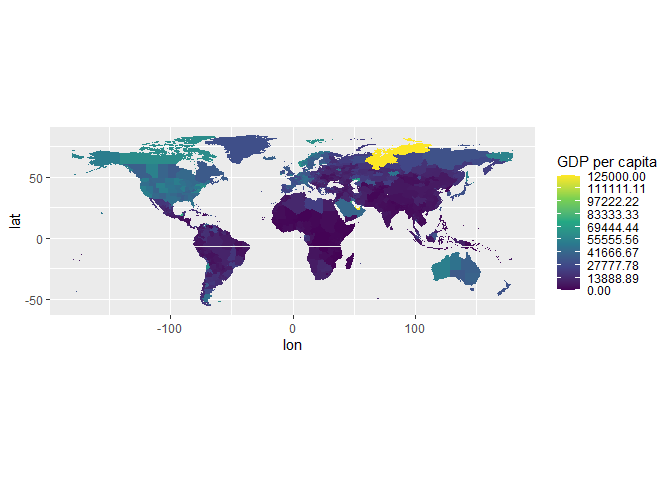
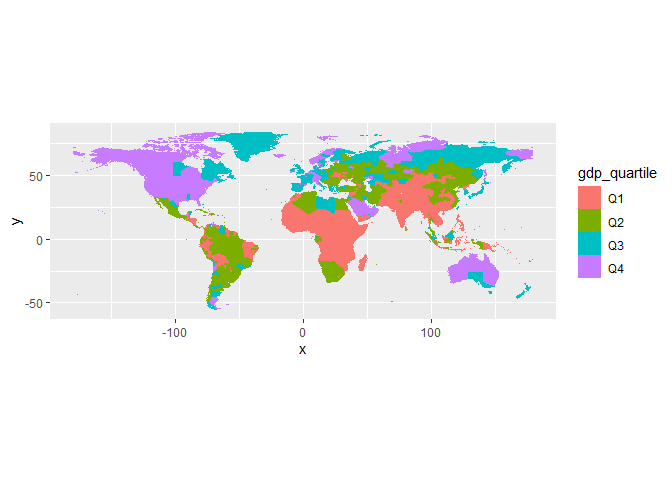
resample income data

diff --git a/MSc-Thesis-Econ/code/income-data.md b/MSc-Thesis-Econ/code/income-data.md
@@ -7,9 +7,8 @@ Code
 
 Source: <https://doi.org/10.5061/dryad.dk1j0>
 
-Also Peri (2019) uses cell-level data for income to split observations
-into 4 income groups (poor, mid-poor, mid-rich, rich). However, two
-drawbacks:
+Peri (2019) uses cell-level data for income to split observations into 4
+income groups (poor, mid-poor, mid-rich, rich). However, two drawbacks:
 
 - low frequency, 10 years intervals between 1980 and 2100
 - low resolution, 0.5° (= 30 arc-min,
@@ -27,93 +26,65 @@ Goal: distribute cells based on their GPD per capita into 4 percentiles
 1)  Long-run income average for all cells, 2000-2015
 2)  Assign percentiles
 
-Making income percentile at cell-level and not using coutry-level data
+Making income percentile at cell-level and not using country-level data
 (eg. from World Bank) allows me to keep taking advantage of the fine
 spatial resolution, capturing within-country variation.
 
 Handling NetCDF files in R: - <https://rdrr.io/cran/ncdf4/man/> -
 <https://pjbartlein.github.io/REarthSysSci/netCDF.html>
 
+**RESAMPLING**! Climate data are in 6 arcmin (0.1°). Therefore I need to
+resample Income data first, from 5 arcmin (0.083°) to 6 arcmin! Loss in
+resolution is not drastic and the aggregation helps in reducing data
+complexity.
+
+``` r
+library(terra)
+```
+
+    ## Warning: package 'terra' was built under R version 4.4.3
+
+    ## terra 1.8.29
+
 ``` r
 library(ncdf4)
 
 filepath_GDP_per_capita_PPP_1990_2015_v2 <- "../data/GDP_per_capita_PPP_1990_2015_v2.nc"
-GDP_per_capita_PPP_1990_2015_v2 <- nc_open(filepath_GDP_per_capita_PPP_1990_2015_v2)
+r_gdp <- rast(filepath_GDP_per_capita_PPP_1990_2015_v2)
+
+r_gdp
 ```
 
-``` r
-# Extract variables of interest
-lat <- ncvar_get(GDP_per_capita_PPP_1990_2015_v2, "latitude") # x2160
-lon <- ncvar_get(GDP_per_capita_PPP_1990_2015_v2, "longitude") # x4320
-years_all <- ncvar_get(GDP_per_capita_PPP_1990_2015_v2, "time") # 1990-2015
-years <- years_all[11:26] # Subset years 2000-2015
-
-gdp <- ncvar_get(
-  GDP_per_capita_PPP_1990_2015_v2, 
-  "GDP_per_capita_PPP", 
-  start = c(1, 1, 11), # Start from beginning of lon and lat, and year 11
-  count = c(-1, -1, 16) # Read all lon, all lat, and 16 years (2000–2015)
-) # Size: 2160 lat * 4320 lon * 16 years = 149.299.200 observations
-
-# From 3D array to 1D vector
-gdp_vec <- as.vector(gdp)
-
-# Build coordinate grid (lon, lat, time)
-grid <- expand.grid(
-  lon = lon,
-  lat = lat,
-  year = years
-)
-
-# Combine into a dataframe
-gdp_df_full <- data.frame(
-  lon = grid$lon,
-  lat = grid$lat,
-  year = grid$year,
-  gdp = gdp_vec
-)
-
-# Remove missing values
-gdp_df <- gdp_df_full[!is.na(gdp_df_full$gdp), ] # From 149ml obs, to 36ml obs
-```
-
-Now that we have imported the dataset, let’s make the average of the
-cell GPD over 2000-2015.
+    ## class       : SpatRaster 
+    ## dimensions  : 2160, 4320, 26  (nrow, ncol, nlyr)
+    ## resolution  : 0.08333333, 0.08333334  (x, y)
+    ## extent      : -180, 180, -90, 90  (xmin, xmax, ymin, ymax)
+    ## coord. ref. : +proj=longlat +datum=WGS84 +no_defs 
+    ## source      : GDP_per_capita_PPP_1990_2015_v2.nc 
+    ## varname     : GDP_per_capita_PPP (Gross Domestic Production (GDP) per capita (PPP)) 
+    ## names       :                           GDP_p~PPP_1,                           GDP_p~PPP_2,                           GDP_p~PPP_3,                           GDP_p~PPP_4,                           GDP_p~PPP_5,                           GDP_p~PPP_6, ... 
+    ## unit        : constant 2011 international US dollar, constant 2011 international US dollar, constant 2011 international US dollar, constant 2011 international US dollar, constant 2011 international US dollar, constant 2011 international US dollar, ...
 
 ``` r
-library(dplyr)
-```
+# Select years 2000–2015
+r_gdp_sel <- r_gdp[[11:26]]
 
-    ## Warning: package 'dplyr' was built under R version 4.4.3
+# Compute mean across years
+r_gdp_mean <- mean(r_gdp_sel, na.rm = TRUE)
 
-    ## 
-    ## Attaching package: 'dplyr'
+# Template at 0.1° (6 arcmin) resolution
+r_template <- rast(ext(r_gdp_mean), resolution = 0.1, crs = crs(r_gdp_mean))
 
-    ## The following objects are masked from 'package:stats':
-    ## 
-    ##     filter, lag
+# Resample to 0.1°
+r_gdp_resampled <- resample(r_gdp_mean, r_template, method = "bilinear")
 
-    ## The following objects are masked from 'package:base':
-    ## 
-    ##     intersect, setdiff, setequal, union
-
-``` r
-# Average GDP 2000-2015
-gdp_avg <- gdp_df %>%
-  group_by(lon, lat) %>%
-  summarise(mean_gdp = mean(gdp, na.rm = TRUE))
-```
-
-    ## `summarise()` has grouped output by 'lon'. You can override using the `.groups`
-    ## argument.
-
-``` r
-# Now the size is 2,3ml observations.
-# Check: 2160*4320, net of NA values of oceans/lakes, global land surface is 29%
+# Convert to data.frame
+gdp_avg <- as.data.frame(r_gdp_resampled, xy = TRUE, na.rm = TRUE)
+names(gdp_avg)[3] <- "mean_gdp"
 ```
 
 Let’s see the distribution of the average GDP per capita. Only few
-outliers (70k observations) at avg_gdp \> \$125k.
+outliers (50k observations) at avg_gdp \> \$125k.
 
 ``` r
 library(ggplot2)
@@ -122,8 +93,11 @@ library(ggplot2)
     ## Warning: package 'ggplot2' was built under R version 4.4.3
 
 ``` r
+# Remove outliers to calculate quantiles
+gdp_avg_clean <- gdp_avg[gdp_avg$mean_gdp < 125000, ]
+
 # Quartiles
-p <- quantile(gdp_avg$mean_gdp, probs = c(0.25, 0.5, 0.75))
+p <- quantile(gdp_avg_clean$mean_gdp, probs = c(0.25, 0.5, 0.75))
 
 # Histogram
 ggplot(gdp_avg, aes(mean_gdp)) +
@@ -139,7 +113,7 @@ ggplot(gdp_avg, aes(mean_gdp)) +
 
     ## `stat_bin()` using `bins = 30`. Pick better value with `binwidth`.
 
-![](income-data_files/figure-gfm/unnamed-chunk-4-1.png)<!-- -->
+![](income-data_files/figure-gfm/unnamed-chunk-3-1.png)<!-- -->
 
 Let’s split observations in quartiles. In this way, we can later group
 Net-Migration and Climate data in GDP clusters.
@@ -157,27 +131,135 @@ gdp_avg$gdp_quartile <- cut(
 Let’s plot average GDP per capita.
 
 ``` r
-ggplot(gdp_avg, aes(x=lon, y=lat, fill=mean_gdp)) +
+ggplot(gdp_avg, aes(x=x, y=y, fill=mean_gdp)) +
   geom_tile() +
   coord_fixed() +
-  scale_fill_viridis_c(name = "GDP per capita", limits = c(0,125000), oob = scales::squish, breaks = seq(0, 125000, length.out=10))
+  scale_fill_viridis_c(name = "GDP per capita", limits = c(0,125000), oob = scales::squish)
 ```
 
-![](income-data_files/figure-gfm/unnamed-chunk-6-1.png)<!-- -->
+![](income-data_files/figure-gfm/unnamed-chunk-5-1.png)<!-- -->
 
 ``` r
 #ggsave("test.png", units = "px", width = 2000, height = 1500)
 ```
 
-Let’s plot quartiles on the map.
+Let’s plot quartiles on the map. It’s visible how using cell-level data,
+instead of country-level, we have within-country variation (and not
+corresponding to regional administrative borders).
 
 ``` r
-ggplot(gdp_avg, aes(x=lon, y=lat, fill=gdp_quartile)) +
+ggplot(gdp_avg, aes(x=x, y=y, fill=gdp_quartile)) +
   geom_tile() +
   coord_fixed()
 ```
 
-![](income-data_files/figure-gfm/unnamed-chunk-7-1.png)<!-- -->
+![](income-data_files/figure-gfm/unnamed-chunk-6-1.png)<!-- -->
+
+Some Summary Stats
+
+``` r
+summary(gdp_avg$mean_gdp)
+```
+
+    ##     Min.  1st Qu.   Median     Mean  3rd Qu.     Max. 
+    ##    449.2   6390.4  19316.2  26655.9  39673.9 132869.7
+
+Number of cells: 1,5 mln.
+
+``` r
+length(gdp_avg$mean_gdp)
+```
+
+    ## [1] 1572666
+
+Number of cell in each income group.
+
+``` r
+table(gdp_avg$gdp_quartile)
+```
+
+    ## 
+    ##     Q1     Q2     Q3     Q4 
+    ## 389525 376595 376245 430301
+
+Info ORIGINAL raster
+
+``` r
+ext(r_gdp_mean)
+```
+
+    ## SpatExtent : -179.999994912559, 179.999994912559, -90.0000025443095, 90.0000025443094 (xmin, xmax, ymin, ymax)
+
+``` r
+res(r_gdp_mean)
+```
+
+    ## [1] 0.08333333 0.08333334
+
+Info RESAMPLED raster
+
+``` r
+ext(r_gdp_resampled)
+```
+
+    ## SpatExtent : -179.999994912559, 179.999994912559, -90.0000025443095, 90.0000025443094 (xmin, xmax, ymin, ymax)
+
+``` r
+res(r_gdp_resampled)
+```
+
+    ## [1] 0.1 0.1
+
+This is how the GRID has changed after resampling.
+
+``` r
+# Area
+region <- ext(10, 11, 50, 51) # lon_min, lon_max, lat_min, lat_max
+
+# Crop
+r_gdp_original_crop <- crop(r_gdp_mean, region) # original
+r_gdp_resampled_crop <- crop(r_gdp_resampled, region) # resampled
+
+# To data frames
+df_original <- as.data.frame(r_gdp_original_crop, xy = TRUE, na.rm = TRUE)
+df_resampled <- as.data.frame(r_gdp_resampled_crop, xy = TRUE, na.rm = TRUE)
+
+ggplot() +
+  # Original
+  geom_tile(data = df_original, aes(x = x, y = y), fill = "black", alpha = .5, color = "black", linewidth = 1) +
+  
+  # Resampled
+  geom_tile(data = df_resampled, aes(x = x, y = y), fill = NA, color = "red", linewidth = 1) +
+  
+  coord_fixed()
+```
+
+![](income-data_files/figure-gfm/unnamed-chunk-14-1.png)<!-- -->
+
+Let’s see the VALUEs.
+
+``` r
+library(ggnewscale) # two color scales
+```
+
+    ## Warning: package 'ggnewscale' was built under R version 4.4.3
+
+``` r
+ggplot() +
+  # Original
+  geom_tile(data = df_original, aes(x = x, y = y, fill = mean)) +
+  scale_fill_viridis_c(name = "GDP original", option = "magma", alpha = .8) +
+  
+  ggnewscale::new_scale_fill() +  # Enables second fill scale
+  
+  # Resampled
+  geom_tile(data = df_resampled, aes(x = x, y = y, fill = mean), alpha = .5, color = "black", linewidth = .5) +
+  scale_fill_viridis_c(name = "GDP resampled", option = "viridis", alpha = 0.6) +
+  
+  coord_fixed()
+```
+
+![](income-data_files/figure-gfm/unnamed-chunk-15-1.png)<!-- -->
 
 Let’s export our final dataset in csv.
 
